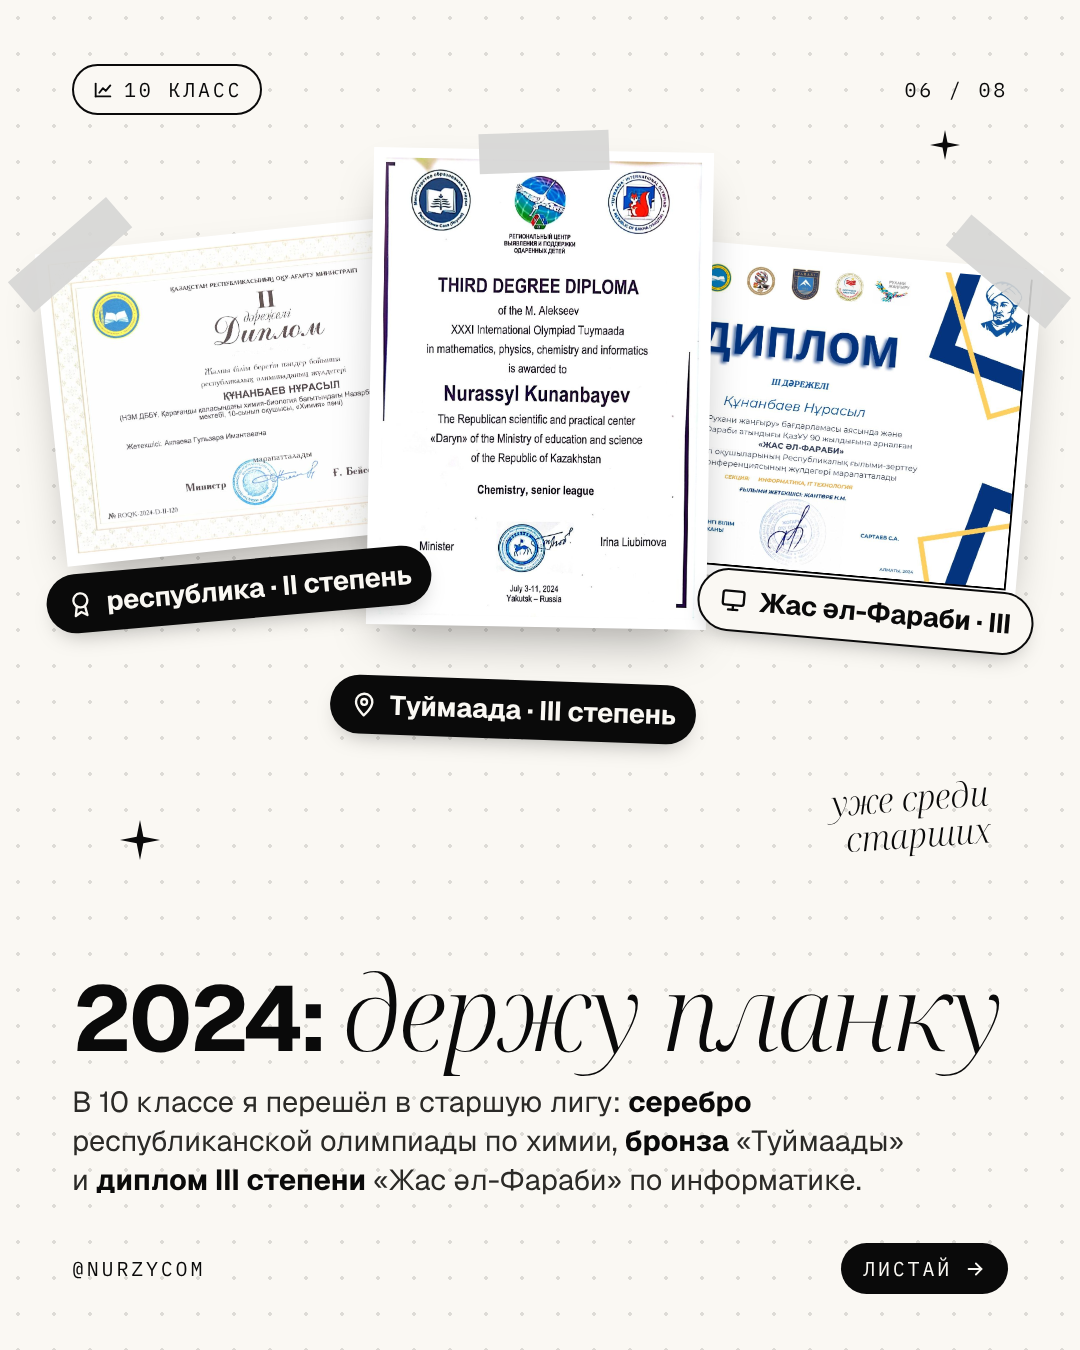
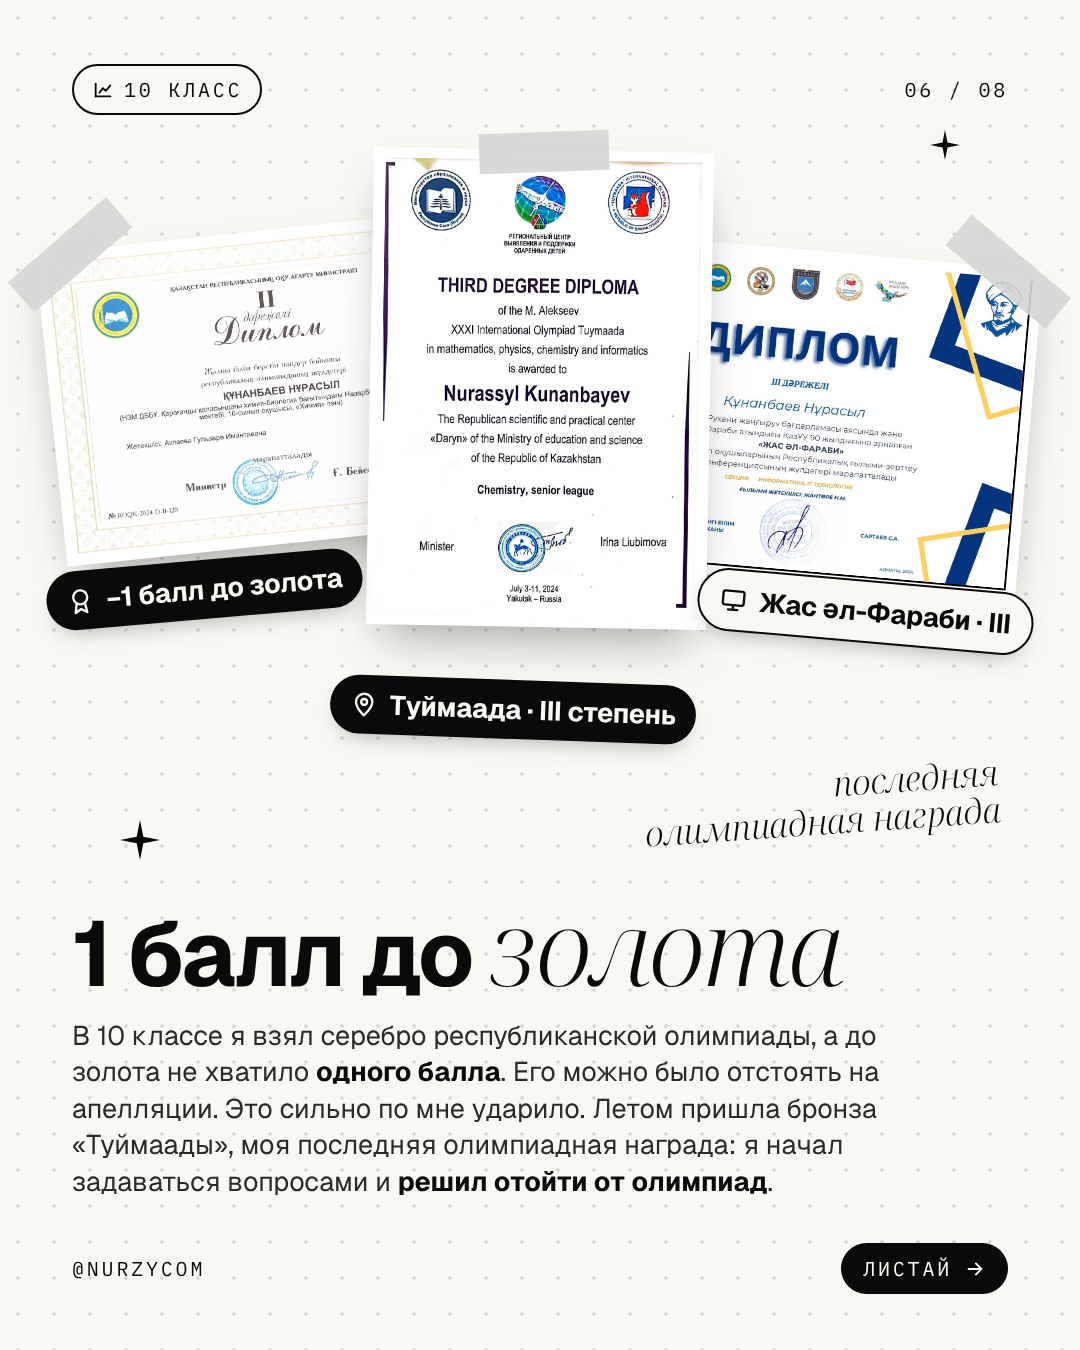
Story slide 6: one point short of gold, stepping back from olympiads
Claude-Session: https://claude.ai/code/session_01EUKBNPzc7y2DXSfnei23HU

Changed region(s): [[0.0611, 0.6844, 0.9167, 0.9022], [0.0611, 0.4044, 0.3972, 0.4667], [0.6417, 0.56, 0.9167, 0.6533]]

diff --git a/social/story/slide-06.html b/social/story/slide-06.html
@@ -61,7 +61,7 @@
   .swipe { display: inline-flex; align-items: center; gap: 12px; padding: 12px 22px; background: var(--ink); color: var(--paper); border-radius: 999px; }
   svg.i { fill: none; stroke: currentColor; stroke-width: 2; stroke-linecap: round; stroke-linejoin: round; }
   .text { position: absolute; left: 72px; right: 72px; bottom: 150px; }
-  .text .sub { max-width: 44ch; font-size: 29px; }
+  .text .sub { max-width: 48ch; font-size: 27px; }
   .doc { position: absolute; background: #fff; padding: 10px; box-shadow: 0 24px 50px -18px rgba(10,10,10,.4); }
   .doc img { display: block; width: 100%; }
   .d1 { left: 50px; top: 230px; width: 450px; transform: rotate(-6deg); }
@@ -75,7 +75,7 @@
   .s1 { top: 560px; left: 46px; right: auto; transform: rotate(-5deg); }
   .s2 { top: 680px; left: 330px; right: auto; transform: rotate(2deg); }
   .s3 { top: 580px; right: 46px; transform: rotate(5deg); }
-  .note { position: absolute; z-index: 3; top: 790px; right: 90px; font: 300 italic 34px/1.1 var(--serif); transform: rotate(-4deg); text-align: right; }
+  .note { position: absolute; z-index: 3; top: 770px; right: 80px; font: 300 italic 34px/1.1 var(--serif); transform: rotate(-4deg); text-align: right; }
   .sp1 { top: 820px; left: 120px; z-index: 3; }
   .sp2 { top: 130px; right: 120px; width: 30px; height: 30px; }
 </style>
@@ -88,19 +88,19 @@
   </div>
 
   <div class="text">
-    <h1>2024: <em>держу планку</em></h1>
-    <p class="sub">В 10 классе я перешёл в старшую лигу: <b>серебро</b> республиканской олимпиады по химии, <b>бронза</b> «Туймаады» и <b>диплом III&nbsp;степени</b> «Жас әл-Фараби» по&nbsp;информатике.</p>
+    <h1>1 балл до <em>золота</em></h1>
+    <p class="sub">В 10 классе я взял серебро республиканской олимпиады, а до золота не хватило <b>одного балла</b>. Его можно было отстоять на апелляции. Это сильно по мне ударило. Летом пришла бронза «Туймаады», моя последняя олимпиадная награда: я начал задаваться вопросами и <b>решил отойти от олимпиад</b>.</p>
   </div>
 
   <div class="doc d1"><span class="tape"></span><img src="../assets/story-06-republic.jpg" alt=""></div>
   <div class="doc d2"><span class="tape"></span><img src="../assets/story-06-farabi.jpg" alt=""></div>
   <div class="doc d3"><span class="tape"></span><img src="../assets/story-06-tuymaada.jpg" alt=""></div>
 
-  <span class="sticker s-dark s1"><svg class="i" viewBox="0 0 24 24"><circle cx="12" cy="9" r="6"/><path d="M8.5 14 7 22l5-3 5 3-1.5-8"/></svg>республика · II степень</span>
+  <span class="sticker s-dark s1"><svg class="i" viewBox="0 0 24 24"><circle cx="12" cy="9" r="6"/><path d="M8.5 14 7 22l5-3 5 3-1.5-8"/></svg>−1 балл до золота</span>
   <span class="sticker s-dark s2"><svg class="i" viewBox="0 0 24 24"><path d="M12 21s-7-6.2-7-11.5A7 7 0 0 1 19 9.5C19 14.8 12 21 12 21z"/><circle cx="12" cy="9.5" r="2.5"/></svg>Туймаада · III степень</span>
   <span class="sticker s-light s3"><svg class="i" viewBox="0 0 24 24"><rect x="3" y="4" width="18" height="12" rx="2"/><path d="M8 20h8"/><path d="M12 16v4"/></svg>Жас әл-Фараби · III</span>
 
-  <span class="note">уже среди<br>старших</span>
+  <span class="note">последняя<br>олимпиадная награда</span>
   <svg class="sparkle sp1" viewBox="0 0 24 24"><path d="M12 0 L14 10 L24 12 L14 14 L12 24 L10 14 L0 12 L10 10 Z"/></svg>
   <svg class="sparkle sp2" viewBox="0 0 24 24"><path d="M12 0 L14 10 L24 12 L14 14 L12 24 L10 14 L0 12 L10 10 Z"/></svg>
 
